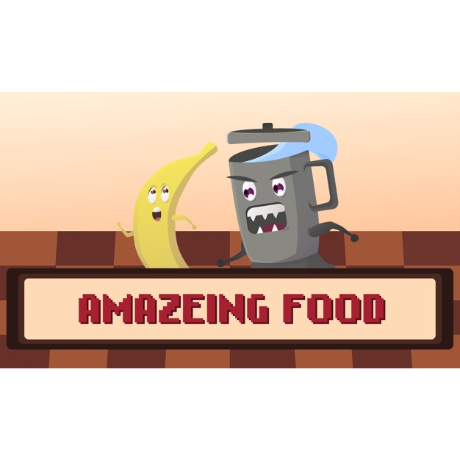
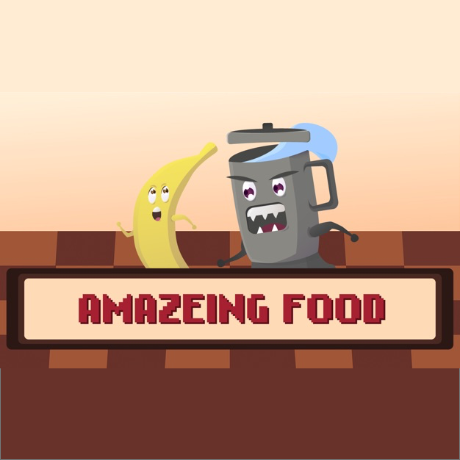
Atualizar imagem do amazeing food

diff --git a/curriculo/src/js/galeria.js b/curriculo/src/js/galeria.js
@@ -5,7 +5,7 @@ var persist = {
     plataforma: 'iOS',
     descricao: '',
     linkDownload: 'https://apple.co/328NsLC',
-    linkImg: 'https://is1-ssl.mzstatic.com/image/thumb/Purple113/v4/d6/17/ab/d617ab77-4ac3-8e74-0ecf-b556bc7b2543/AppIcon-0-0-1x_U007emarketing-0-0-0-5-0-0-sRGB-0-0-0-GLES2_U002c0-512MB-85-220-0-0.png/460x0w.png'
+    linkImg: 'https://github.com/murilogteixeira/MuriloWebsite/blob/master/imagens/persist.png?raw=true'
 }
 
 var reformise = {
@@ -13,7 +13,7 @@ var reformise = {
     plataforma: 'iOS',
     descricao: '',
     linkDownload: 'https://apple.co/2VCWZZ2',
-    linkImg: 'https://is4-ssl.mzstatic.com/image/thumb/Purple123/v4/e0/e9/01/e0e9010e-cb34-19ca-93b9-0603a9a1029f/AppIcon-0-0-1x_U007emarketing-0-0-0-7-0-0-sRGB-0-0-0-GLES2_U002c0-512MB-85-220-0-0.jpeg/460x0w.jpg'
+    linkImg: 'https://github.com/murilogteixeira/MuriloWebsite/blob/master/imagens/reformise.png?raw=true'
 }
 
 var amazeingFood = {
@@ -21,7 +21,7 @@ var amazeingFood = {
     plataforma: 'tvOS',
     descricao: '',
     linkDownload: 'https://apple.co/32fpsav',
-    linkImg: 'https://is3-ssl.mzstatic.com/image/thumb/Purple113/v4/55/3a/ec/553aecca-a990-1f27-b252-8a061e663efb/App_Icon-marketing.lsr/626x0w.jpg'
+    linkImg: 'https://github.com/murilogteixeira/MuriloWebsite/blob/master/imagens/amazeing-food.png?raw=true'
 }
 
 var pommo = {
@@ -29,7 +29,7 @@ var pommo = {
     plataforma: 'iOS',
     descricao: '',
     linkDownload: 'https://apple.co/2zAN4MK',
-    linkImg: 'https://is4-ssl.mzstatic.com/image/thumb/Purple123/v4/ed/55/59/ed5559cd-a5ce-6663-8e54-9c07e3ead00b/AppIcon-0-1x_U007emarketing-0-5-0-85-220.png/460x0w.png'
+    linkImg: 'https://github.com/murilogteixeira/MuriloWebsite/blob/master/imagens/pommo.png?raw=true'
 }
 
 var lummos = {
@@ -37,7 +37,7 @@ var lummos = {
     plataforma: 'watchOS',
     descricao: '',
     linkDownload: 'https://apple.co/33Jnthg',
-    linkImg: 'https://is3-ssl.mzstatic.com/image/thumb/Purple123/v4/eb/c8/7f/ebc87fce-ad4a-f2d4-7ed6-36615d50614c/AppIcon-1x_U007emarketing-0-9-85-220.png/460x0w.png'
+    linkImg: 'https://github.com/murilogteixeira/MuriloWebsite/blob/master/imagens/lummos.png?raw=true'
 }
 
 var pixelGame = {
